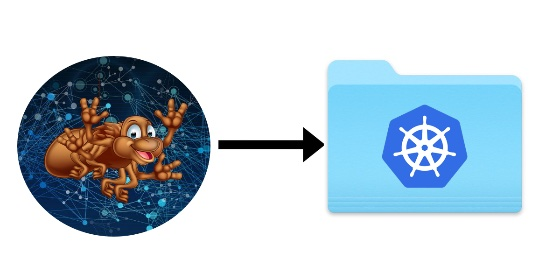
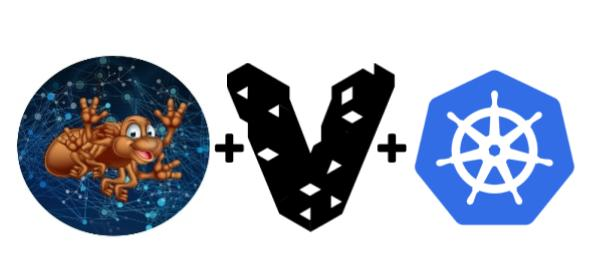
Updating Quick start guide
Adding instructions in the Quick start guide on setting up
the Network Service Mesh in a local development environment
using Vagrant. Updated the image at the top to reflect this
as well

diff --git a/content/docs/setup/QUICK-START.md b/content/docs/setup/QUICK-START.md
@@ -1,31 +1,99 @@
 +++
 title = "Quick Start"
 type = "setup"
-summary = "Running NSM on an existing Kubernetes Cluster"
+summary = "Running NSM on a Kubernetes cluster in Vagrant"
 image= "/img/setup/quickstart.jpg"
+
 +++
 
 # Quick Start Network Service Mesh
 
-This document assumes you already have a kubernetes cluster with kubectl properly configured. If not,
-[How to stand up a VM from scratch with everything for NSM](/docs/tutorials/complete-startup-guide/)
+This document will configure two Vagrant boxes in a Kubernetes cluster with a master and a worker node. It will also deploy the Network Service Mesh components in the cluster.
 
+### Pre-requisites
 
-### Create the daemonset
+* [Vagrant](https://www.vagrantup.com/docs/installation/)
+* [Docker](https://docs.docker.com/install/)
 
+```bash
+git clone https://github.com/ligato/networkservicemesh && cd networkservicemesh
 ```
-kubectl create -f https://raw.githubusercontent.com/ligato/networkservicemesh/master/conf/sample/networkservice-daemonset.yaml
+
+### Build
+
+First let's build the Docker images of the various components
+
+```bash
+make k8s-save
 ```
 
+### Deploy
+
+Then we'll configure a Kubernetes cluster. A master and a worker node will be launched in two separate Vagrant machines. The Network Service Mesh components will then be deployed to the cluster.
+
+```bash
+make k8s-deploy
+```
 
 ### Verify the daemonset is running
-Now you should be able to see your Network Service Mesh daemonset running:
 
+You can configure your Kubernetes client to interact with the cluster directly.
+
+```bash
+source $GOPATH/src/github.com/ligato/networkservicemesh/scripts/vagrant/env.sh
+kubectl get daemonset nsmd
 ```
-kubectl get daemonset networkservice
+
+ This will allow you to see your Network Service Mesh daemonset running:
+
+```bash
+NAME   DESIRED   CURRENT   READY   UP-TO-DATE   AVAILABLE   NODE SELECTOR   AGE
+nsmd   2         2         2       2            2           <none>          19m
 ```
-You should see something like:
+
+### Test
+
+To verify the setup is working, let's send some pings between the two nodes.
+
+```bash
+make k8s-check
 ```
-NAME             DESIRED   CURRENT   READY     UP-TO-DATE   AVAILABLE   NODE SELECTOR   AGE
-networkservice   1         1         1         1            1           <none>          9m
+
+You should see ping succeeding as below:
+
+```bash
+./scripts/nsc_ping_all.sh
+===== >>>>> PROCESSING nsc-84799b768f-99wgf  <<<<< ===========
+PING 10.20.1.2 (10.20.1.2): 56 data bytes
+64 bytes from 10.20.1.2: seq=0 ttl=64 time=6.313 ms
+
+--- 10.20.1.2 ping statistics ---
+1 packets transmitted, 1 packets received, 0% packet loss
+round-trip min/avg/max = 6.313/6.313/6.313 ms
+NSC nsc-84799b768f-99wgf with IP 10.20.1.1/30 pinging icmp-responder-nse TargetIP: 10.20.1.2 successful
+===== >>>>> PROCESSING nsc-84799b768f-d82w5  <<<<< ===========
+PING 10.20.1.2 (10.20.1.2): 56 data bytes
+64 bytes from 10.20.1.2: seq=0 ttl=64 time=1.015 ms
+
+--- 10.20.1.2 ping statistics ---
+1 packets transmitted, 1 packets received, 0% packet loss
+round-trip min/avg/max = 1.015/1.015/1.015 ms
+NSC nsc-84799b768f-d82w5 with IP 10.20.1.1/30 pinging icmp-responder-nse TargetIP: 10.20.1.2 successful
+===== >>>>> PROCESSING nsc-84799b768f-ktm4w  <<<<< ===========
+PING 10.30.1.2 (10.30.1.2): 56 data bytes
+64 bytes from 10.30.1.2: seq=0 ttl=64 time=3.199 ms
+
+--- 10.30.1.2 ping statistics ---
+1 packets transmitted, 1 packets received, 0% packet loss
+round-trip min/avg/max = 3.199/3.199/3.199 ms
+NSC nsc-84799b768f-ktm4w with IP 10.30.1.1/30 pinging vppagent-icmp-responder-nse TargetIP: 10.30.1.2 successful
+===== >>>>> PROCESSING nsc-84799b768f-wvxwt  <<<<< ===========
+PING 10.30.1.2 (10.30.1.2): 56 data bytes
+64 bytes from 10.30.1.2: seq=0 ttl=64 time=6.070 ms
+
+--- 10.30.1.2 ping statistics ---
+1 packets transmitted, 1 packets received, 0% packet loss
+round-trip min/avg/max = 6.070/6.070/6.070 ms
+NSC nsc-84799b768f-wvxwt with IP 10.30.1.1/30 pinging vppagent-icmp-responder-nse TargetIP: 10.30.1.2 successful
 ```
+
